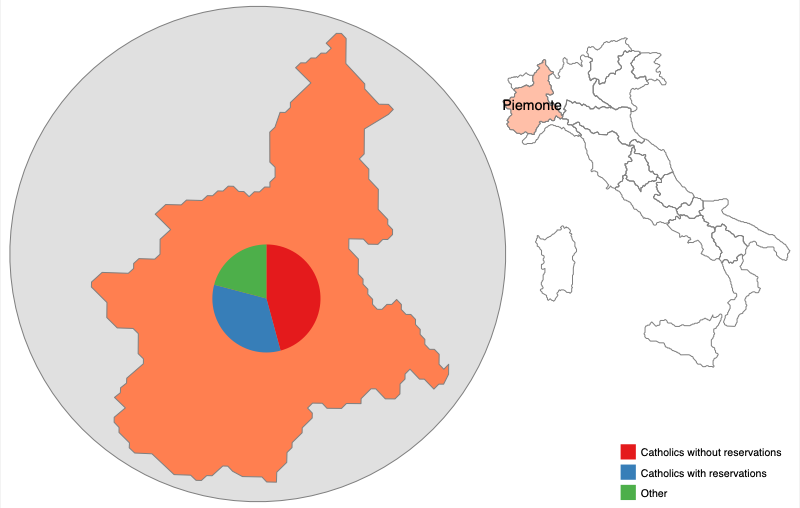
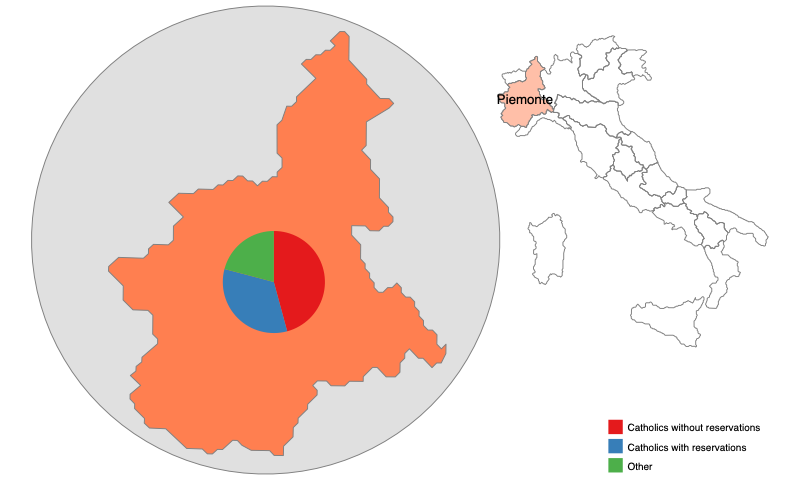
latest version

diff --git a/README.md b/README.md
@@ -126,7 +126,7 @@ Zoom.
         (area bbox            if id==1, fc(gs14) lc(gray))           /// 3
         (area regions         if id==1, fc(Coral) lc(gray))          /// 4
         (pie regions relig1 relig2 relig3 if id==1, lab(, reverse))  /// 5
-        , tight legend(pos(se) rowgap(1)) zoom(4/6: 6 90 210)
+        , legend(pos(se) rowgap(1)) zoom(4/6: 6 90 210)
 
 ![example 12](/images/12.png)
 
